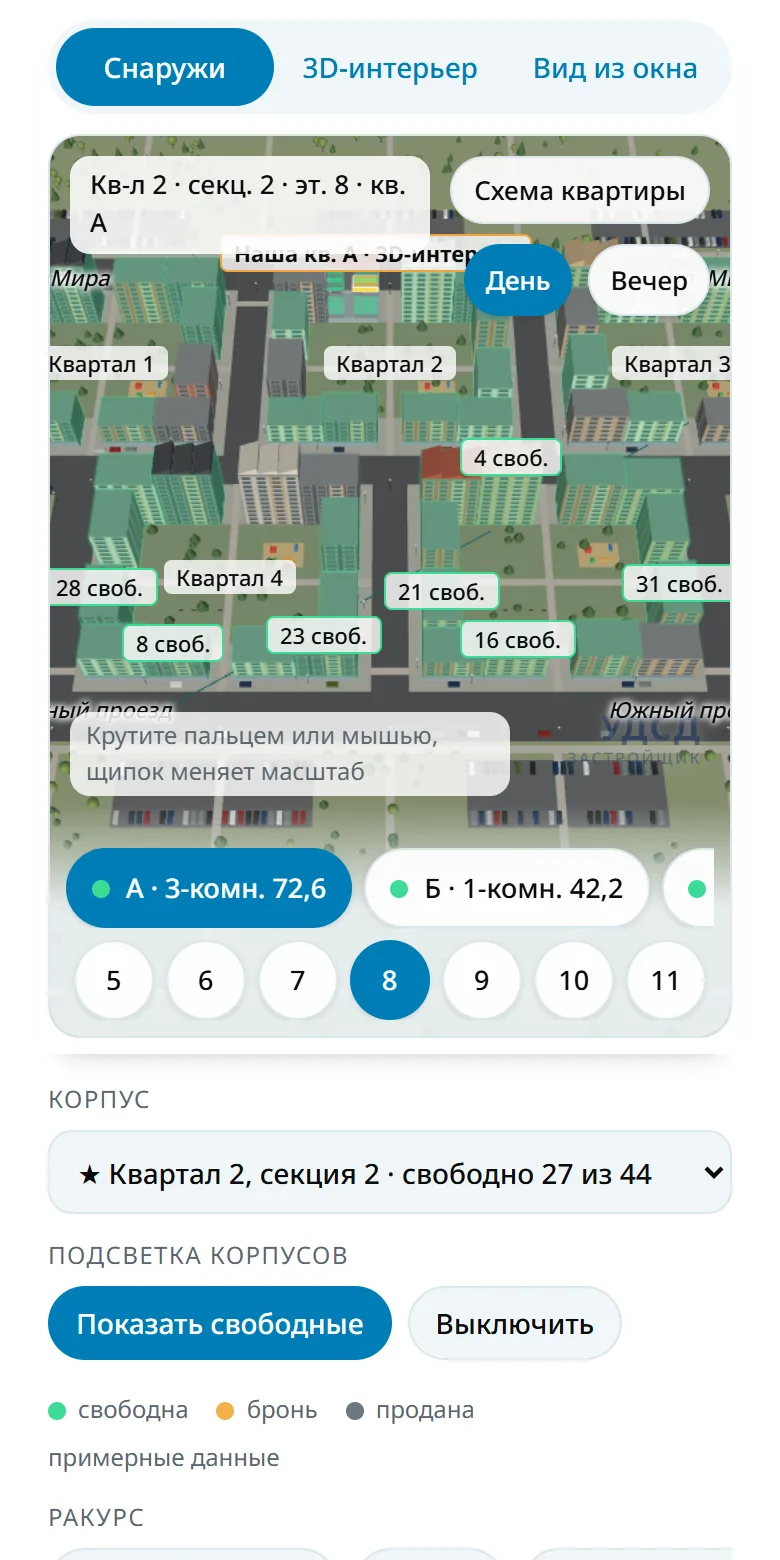
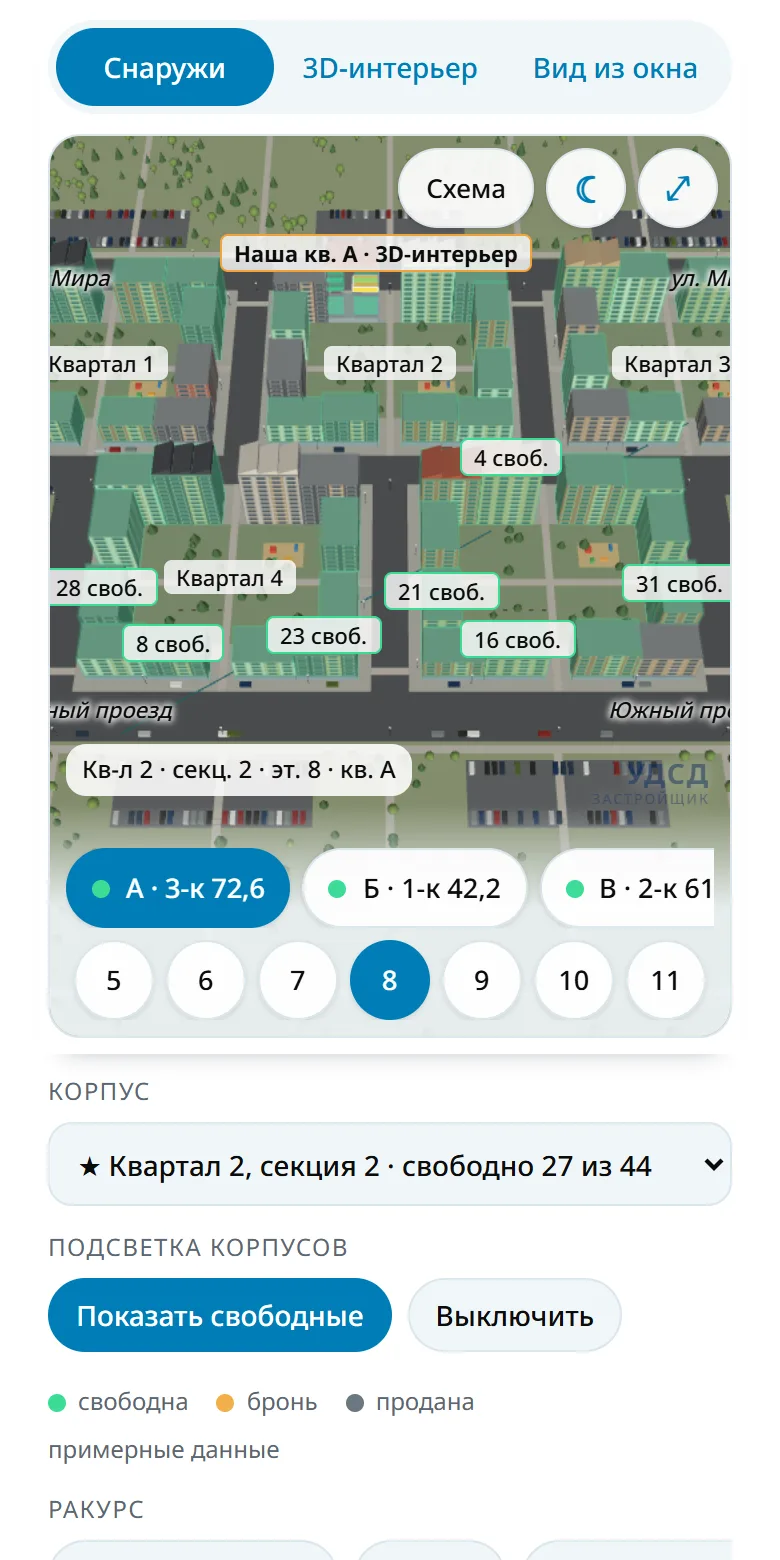
Мобильная версия: компактная шапка, панель над сценой, полноэкранный режим, нижняя панель в КП
Демо: плашка и заголовок короче, сверху сцены один ряд (Схема, день/вечер одной кнопкой, во весь экран), подпись одной строкой, короткая подсказка прячется через 4 с, кнопки квартир короче; полноэкранный режим для 3D.
КП: на телефоне закреплённая снизу панель «Открыть демо» и «Позвонить».

diff --git a/demo/index.html b/demo/index.html
@@ -74,8 +74,19 @@ h1{font-family:var(--f-display);font-weight:700;font-size:clamp(26px,6vw,38px);l
 .dock .chip[aria-pressed="true"],.tchips .chip[aria-pressed="true"]{background:var(--acc)}
 .dock .chip.fl{min-width:40px;padding:7px 8px}
 .dlab{flex:none;font-size:11px;letter-spacing:.06em;text-transform:uppercase;color:var(--mut);padding:0 2px 0 4px}
-.tchips{position:absolute;right:10px;top:54px;gap:4px;overflow:visible;padding:0}
+.tbar{position:absolute;right:8px;top:8px;display:flex;gap:6px;align-items:center}
+.tchips{gap:4px;overflow:visible;padding:0}
 .tchips .chip{min-height:36px;padding:6px 10px;font-size:13px}
+.icobtn{width:40px;height:40px;flex:none;display:inline-flex;align-items:center;justify-content:center;border:1px solid var(--line);border-radius:50%;background:color-mix(in srgb,var(--surf) 94%,transparent);color:var(--acc);font:700 18px/1 var(--f-body);cursor:pointer;box-shadow:0 1px 3px rgba(0,0,0,.12)}
+.icobtn[aria-pressed="true"]{background:var(--acc);color:var(--accfg);border-color:var(--acc)}
+.icobtn:focus-visible{outline:2px solid var(--acc);outline-offset:2px}
+.sm{display:none}
+/* full screen: the pinned block (tabs + stage) covers the whole screen; the disclaimer stays visible under the stage */
+.fullnote{display:none;font-size:11px;color:var(--mut);text-align:center}
+body.full{overflow:hidden}
+body.full .pin{position:fixed;inset:0;z-index:40;margin:0;box-shadow:none;padding:max(8px,env(safe-area-inset-top,0px)) max(8px,env(safe-area-inset-right,0px)) max(6px,env(safe-area-inset-bottom,0px)) max(8px,env(safe-area-inset-left,0px));gap:8px}
+body.full .stage{flex:1;height:auto;min-height:0}
+body.full .fullnote{display:block}
 .hint{position:absolute;left:10px;bottom:calc(var(--dockh) + 4px);font-size:12px;color:var(--mut);background:color-mix(in srgb,var(--surf) 82%,transparent);padding:3px 8px;border-radius:10px;pointer-events:none;max-width:calc(100% - 120px)}
 .badge{position:absolute;left:10px;top:10px;max-width:calc(100% - 160px);font-size:13px;font-weight:500;background:color-mix(in srgb,var(--surf) 88%,transparent);padding:5px 10px;border-radius:10px;pointer-events:none;font-variant-numeric:tabular-nums}
 .rl{position:absolute;left:0;top:0;border:1px solid var(--line);background:color-mix(in srgb,var(--surf) 90%,transparent);color:var(--fg);font:500 12px/1.25 var(--f-body);padding:4px 8px;border-radius:6px;cursor:pointer;white-space:nowrap;text-align:center;pointer-events:auto}
@@ -119,7 +130,7 @@ h1{font-family:var(--f-display);font-weight:700;font-size:clamp(26px,6vw,38px);l
 .st{width:9px;height:9px;border-radius:50%;display:inline-block;flex:none}
 .legend{display:flex;flex-wrap:wrap;gap:6px 14px;font-size:12px;color:var(--mut)}
 .legend span{display:inline-flex;align-items:center;gap:6px}
-.planbtn{position:absolute;right:10px;top:10px;border:1px solid var(--line);background:color-mix(in srgb,var(--surf) 92%,transparent);color:var(--fg);font:500 13px var(--f-body);padding:7px 11px;border-radius:44px;cursor:pointer}
+.planbtn{min-height:40px;border:1px solid var(--line);background:color-mix(in srgb,var(--surf) 92%,transparent);color:var(--fg);font:500 13px var(--f-body);padding:7px 13px;border-radius:44px;cursor:pointer;box-shadow:0 1px 3px rgba(0,0,0,.12)}
 .planbtn:focus-visible{outline:2px solid var(--acc);outline-offset:2px}
 .mini{position:absolute;right:10px;bottom:calc(var(--dockh) + 6px);width:min(46%,190px);background:color-mix(in srgb,var(--surf) 92%,transparent);border:1px solid var(--line);border-radius:12px;padding:4px;cursor:pointer}
 .mini svg{display:block;width:100%;height:auto}
@@ -150,13 +161,27 @@ svg text{font-family:var(--f-body)}
 @media (prefers-reduced-motion: reduce){*{scroll-behavior:auto!important}}
 .demo-bar{font-size:12.5px;color:var(--mut);background:var(--chip);border-left:4px solid var(--green);border-radius:12px;padding:8px 12px;margin-bottom:12px}
 .demo-bar a{color:var(--acc)}
+/* phones: compact header, one-line labels, short texts */
+@media (max-width:640px){
+  .lg{display:none}.sm{display:inline}.icobtn.sm{display:inline-flex}
+  #rTime{display:none}
+  .demo-bar{font-size:11.5px;padding:6px 10px;margin-bottom:4px}
+  .eyebrow{font-size:11px}
+  h1{font-size:21px}
+  .wrap{gap:10px}
+  .badge{top:auto;bottom:calc(var(--dockh) + 4px);left:8px;max-width:calc(100% - 96px);font-size:12px;padding:4px 8px;white-space:nowrap;overflow:hidden;text-overflow:ellipsis}
+  .hint{bottom:auto;top:56px;left:8px;right:8px;max-width:none;text-align:center;font-size:11.5px}
+  .logo{bottom:calc(var(--dockh) + 8px);right:10px;font-size:14px}
+  .logo small{font-size:7px;top:16px}
+  .tbar{right:6px;top:6px}
+}
 </style>
 </head>
 <body>
 
 
 <div class="wrap">
-<div class="demo-bar">Демо-концепт <a href="https://3dryad.ru" target="_blank" rel="noopener">3dryad.ru</a> для УДСД · не официальный сайт застройщика · <a href="../">Коммерческое предложение</a></div>
+<div class="demo-bar">Демо-концепт <a href="https://3dryad.ru" target="_blank" rel="noopener">3dryad.ru</a><span class="lg"> для УДСД</span> · не официальный сайт застройщика · <a href="../"><span class="lg">Коммерческое предложение</span><span class="sm">КП</span></a></div>
   <header>
     <div class="eyebrow">ЖК «Новелла» · квартал 2, секция 2</div>
     <h1 id="h1">Трёхкомнатная квартира, 72,6 м²</h1>
@@ -177,10 +202,15 @@ svg text{font-family:var(--f-body)}
     <div id="labels"></div>
     <div id="geo" hidden></div>
     <div class="badge" id="badge" hidden></div>
-    <button type="button" class="planbtn" id="planBtn">Схема квартиры</button>
+    <!-- one row of tools at the top right: plan, day/evening (chips on wide screens, one toggle on phones), full screen -->
+    <div class="tbar">
+      <button type="button" class="planbtn" id="planBtn"><span class="lg">Схема квартиры</span><span class="sm">Схема</span></button>
+      <div class="chips tchips" id="rTime" role="group" aria-label="Освещение"></div>
+      <button type="button" class="icobtn sm" id="timeBtn" aria-label="Включить вечер">☾</button>
+      <button type="button" class="icobtn" id="fullBtn" aria-label="Во весь экран" aria-pressed="false">⤢</button>
+    </div>
     <div class="mini" id="mini" hidden></div>
     <div class="hint" id="hint"></div>
-    <div class="chips tchips" id="rTime" role="group" aria-label="Освещение"></div>
     <!-- the main controls of each mode sit on the stage itself, so the 3D view stays in sight while switching -->
     <div class="dock" id="dock">
       <div class="chips" id="rView" data-m="int" role="group" aria-label="Комната"></div>
@@ -191,6 +221,7 @@ svg text{font-family:var(--f-body)}
     </div>
     <div class="fallback" id="fb"><div>Не удалось запустить 3D в этом браузере.<br>Обновите страницу (Ctrl+F5) или откройте её в Chrome, Яндекс Браузере или Edge. Если не помогло — включите в настройках браузера аппаратное ускорение.<small></small></div></div>
   </div>
+  <div class="fullnote">Демо-концепт 3dryad.ru · не официальный сайт застройщика</div>
   </div>
 
   <div class="panel" id="pInt">
@@ -279,7 +310,7 @@ svg text{font-family:var(--f-body)}
   // drawing on demand (see frame()): wake() asks for a couple of frames; shadows are recomputed only when the scene changes,
   // not on every camera move; nothing is drawn while the stage is off screen (the demo inside the proposal page, scrolled away)
   let dirty = 2, onScreen = true;
-  const coarse = matchMedia('(pointer: coarse)').matches;
+  const coarse = matchMedia('(pointer: coarse)').matches, narrow = () => innerWidth <= 640;   // narrow: phone layout (same breakpoint as the CSS)
   const wake = () => { dirty = Math.max(dirty, 2); };
   // the camera's damping keeps sending tiny changes for seconds (at city distances); only a visible move asks for a frame
   const lastPos = new THREE.Vector3(), lastQ = new THREE.Quaternion();
@@ -1357,7 +1388,7 @@ svg text{font-family:var(--f-body)}
     const tx = document.createTextNode(''); b.appendChild(tx); aptBtns[l] = { dot: dot, tx: tx };
   });
   function fillApts() {
-    LETTERS.forEach((l) => { const st = status(S.sec, S.floor, l), t = TYPES[l]; aptBtns[l].dot.style.background = ST[st].c; aptBtns[l].tx.nodeValue = ' ' + t.n + ' · ' + t.short + ' ' + fmt(t.area); });
+    LETTERS.forEach((l) => { const st = status(S.sec, S.floor, l), t = TYPES[l]; aptBtns[l].dot.style.background = ST[st].c; aptBtns[l].tx.nodeValue = ' ' + t.n + ' · ' + (narrow() ? t.short.replace('-комн.', '-к') : t.short) + ' ' + fmt(t.area); });
   }
   const actPlan = chip($('rAct'), 'Схема планировки', () => false, () => openPlan());
   const act3d = chip($('rAct'), 'Интерьер 3D', () => false, () => { S.mode = 'ext'; enterInterior(true); refresh(true); });
@@ -1371,6 +1402,19 @@ svg text{font-family:var(--f-body)}
 
   chip($('rTime'), 'День', () => S.time === 'day', () => { S.time = 'day'; refresh(); });
   chip($('rTime'), 'Вечер', () => S.time === 'eve', () => { S.time = 'eve'; refresh(); });
+  // phones: one round day/evening toggle instead of two chips; it shows what a tap switches to
+  const timeBtn = $('timeBtn');
+  timeBtn.addEventListener('click', () => { S.time = S.time === 'day' ? 'eve' : 'day'; refresh(); });
+  sync.push(() => { const eve = S.time === 'eve'; timeBtn.textContent = eve ? '☀' : '☾'; timeBtn.setAttribute('aria-label', eve ? 'Включить день' : 'Включить вечер'); });
+  // full screen: tabs + stage over the whole page (on a phone the 3D gets the entire screen)
+  const fullBtn = $('fullBtn');
+  function setFull(on) {
+    document.body.classList.toggle('full', on); fullBtn.setAttribute('aria-pressed', on ? 'true' : 'false');
+    fullBtn.textContent = on ? '✕' : '⤢'; fullBtn.setAttribute('aria-label', on ? 'Выйти из полноэкранного режима' : 'Во весь экран');
+    resize(); refresh(true);
+  }
+  fullBtn.addEventListener('click', () => setFull(!document.body.classList.contains('full')));
+  document.addEventListener('keydown', (e) => { if (e.key === 'Escape' && document.body.classList.contains('full') && sheetEl.hidden) setFull(false); });
   $('tInt').addEventListener('click', () => { if (S.mode !== 'int') { enterInterior(true); refresh(true); } });
   $('tWin').addEventListener('click', () => { if (S.mode !== 'win') { enterWindow(); refresh(true); } });
   $('tExt').addEventListener('click', () => { if (S.mode !== 'ext') { S.sec = towerSec.i; S.apt = 'a'; S.inner = false; S.extView = 'yard'; enterExt(true); refresh(true); } });
@@ -1453,10 +1497,16 @@ svg text{font-family:var(--f-body)}
       const a = document.createElement('a'); a.href = 'https://uds-d.ru/proekty/novella-semeynye-kvartaly/o-proekte/'; a.target = '_blank'; a.rel = 'noopener'; a.textContent = 'Источник: uds-d.ru'; n.appendChild(a);
     } else n.textContent = 'Мебель и отделка показаны как пример дизайн-проекта. Комнаты и площади взяты из планировки в 3D-модели квартала. Двери и окна расставлены условно, их положение нужно сверить с проектом.';
   }
+  let hintTimer = 0, hintKey = '';
   function hintText() {
-    const h = $('hint'); h.hidden = false;
-    h.textContent = S.mode === 'ext' ? 'Крутите пальцем или мышью, щипок меняет масштаб' : S.mode === 'win' ? 'Потяните, чтобы осмотреться, колесо или щипок меняют угол обзора'
-      : (S.cam === 'walk' ? 'Нажмите на пол, чтобы пройти. Потяните, чтобы осмотреться' : 'Крутите пальцем или мышью, щипок меняет масштаб');
+    const h = $('hint'), key = S.mode + S.cam;
+    h.textContent = narrow()
+      ? (S.mode === 'win' ? 'Потяните — осмотреться, щипок — угол обзора' : S.mode === 'int' && S.cam === 'walk' ? 'Нажмите на пол — пройти, потяните — осмотреться' : 'Крутите пальцем, щипок — масштаб')
+      : (S.mode === 'ext' ? 'Крутите пальцем или мышью, щипок меняет масштаб' : S.mode === 'win' ? 'Потяните, чтобы осмотреться, колесо или щипок меняют угол обзора'
+        : (S.cam === 'walk' ? 'Нажмите на пол, чтобы пройти. Потяните, чтобы осмотреться' : 'Крутите пальцем или мышью, щипок меняет масштаб'));
+    if (key === hintKey) return; hintKey = key;   // shown again only when the way of moving changes
+    h.hidden = false; clearTimeout(hintTimer);
+    if (narrow()) hintTimer = setTimeout(() => { h.hidden = true; }, 4000);   // on a phone the hint gives the 3D back after 4 s
   }
   /* ---------- recently viewed apartments ---------- */
   let recents = [], recKey = '';

diff --git a/index.html b/index.html
@@ -162,6 +162,17 @@ footer{border-top:1px solid var(--line);padding:32px 0 40px;margin-top:20px}
 .contacts{display:grid;grid-template-columns:repeat(auto-fit,minmax(200px,1fr));gap:12px;margin-top:14px}
 .contacts a{font:600 17px var(--f-display);text-decoration:none}
 .small{font-size:12px;color:var(--mut);margin-top:22px}
+/* phones: the two main actions stay at the bottom of the screen; the page gets room for them */
+.mbar{display:none}
+@media (max-width:640px){
+  .mbar{display:flex;gap:8px;position:fixed;left:0;right:0;bottom:0;z-index:20;padding:10px max(12px,env(safe-area-inset-right,0px)) max(10px,env(safe-area-inset-bottom,0px)) max(12px,env(safe-area-inset-left,0px));background:color-mix(in srgb,#fff 94%,transparent);box-shadow:0 -6px 16px -10px rgba(15,40,55,.35)}
+  .mbar .btn{flex:1;justify-content:center;margin:0}
+  body{padding-bottom:76px}
+  .topbar{font-size:13.5px;padding:8px 12px}
+  h1{font-size:30px}
+  .lead{font-size:16px}
+  section{padding:30px 0}
+}
 </style>
 </head>
 <body>
@@ -362,6 +373,7 @@ footer{border-top:1px solid var(--line);padding:32px 0 40px;margin-top:20px}
     <p class="small">Демо-концепт 3dryad.ru, подготовлен для УДСД. Не является официальным сайтом застройщика.</p>
   </footer>
 </div>
+<nav class="mbar" aria-label="Быстрые действия"><a class="btn pri" href="demo/">Открыть демо</a><a class="btn blue" href="tel:+79120714916">Позвонить</a></nav>
 <script>
 (function () {
   'use strict';

diff --git a/CLAUDE.md b/CLAUDE.md
@@ -45,3 +45,4 @@
 `node tools/screens.js` (нужен `npm i playwright` и `npx playwright install chromium`) — снимает основные режимы на 420×900 в `shots/`. После правок: синтаксис (`node --check` на извлечённом скрипте), скриншоты, ручной просмотр на телефоне.
 - Вкладки режимов и 3D-сцена обёрнуты в `.pin` (`position:sticky; top:0`): при прокрутке к панелям ниже сцена остаётся на месте (просьба пользователя, 27.10.2026). Высота сцены `clamp(340px,58vh,640px)`, чтобы под ней оставалось место; при высоте окна < 560px (телефон боком) не закрепляется.
 - Порядок вкладок: **Снаружи → 3D-интерьер → Вид из окна**; демо открывается на «Снаружи» у нашей квартиры (в конце инициализации `enterExt`). Экраны в КП и `tools/mockups.js` — в том же порядке.
+- Телефон (≤640px, `narrow()` в JS — тот же порог): плашка и заголовок компактные (`.lg`/`.sm` — длинный и короткий варианты текста), сверху сцены один ряд `.tbar` (Схема, переключатель день/вечер `#timeBtn` вместо чипов `#rTime`, `#fullBtn`), подпись местоположения — одной строкой над доком, подсказка короткая и прячется через 4 с, кнопки квартир «А · 3-к 72,6». Полноэкранный режим — `body.full` (блок `.pin` на весь экран, строка-дисклеймер `.fullnote` под сценой). Блок CSS для телефонов стоит в конце `<style>`, иначе базовые правила его перебивают. КП на телефоне: закреплённая снизу панель `.mbar` (Открыть демо, Позвонить).
